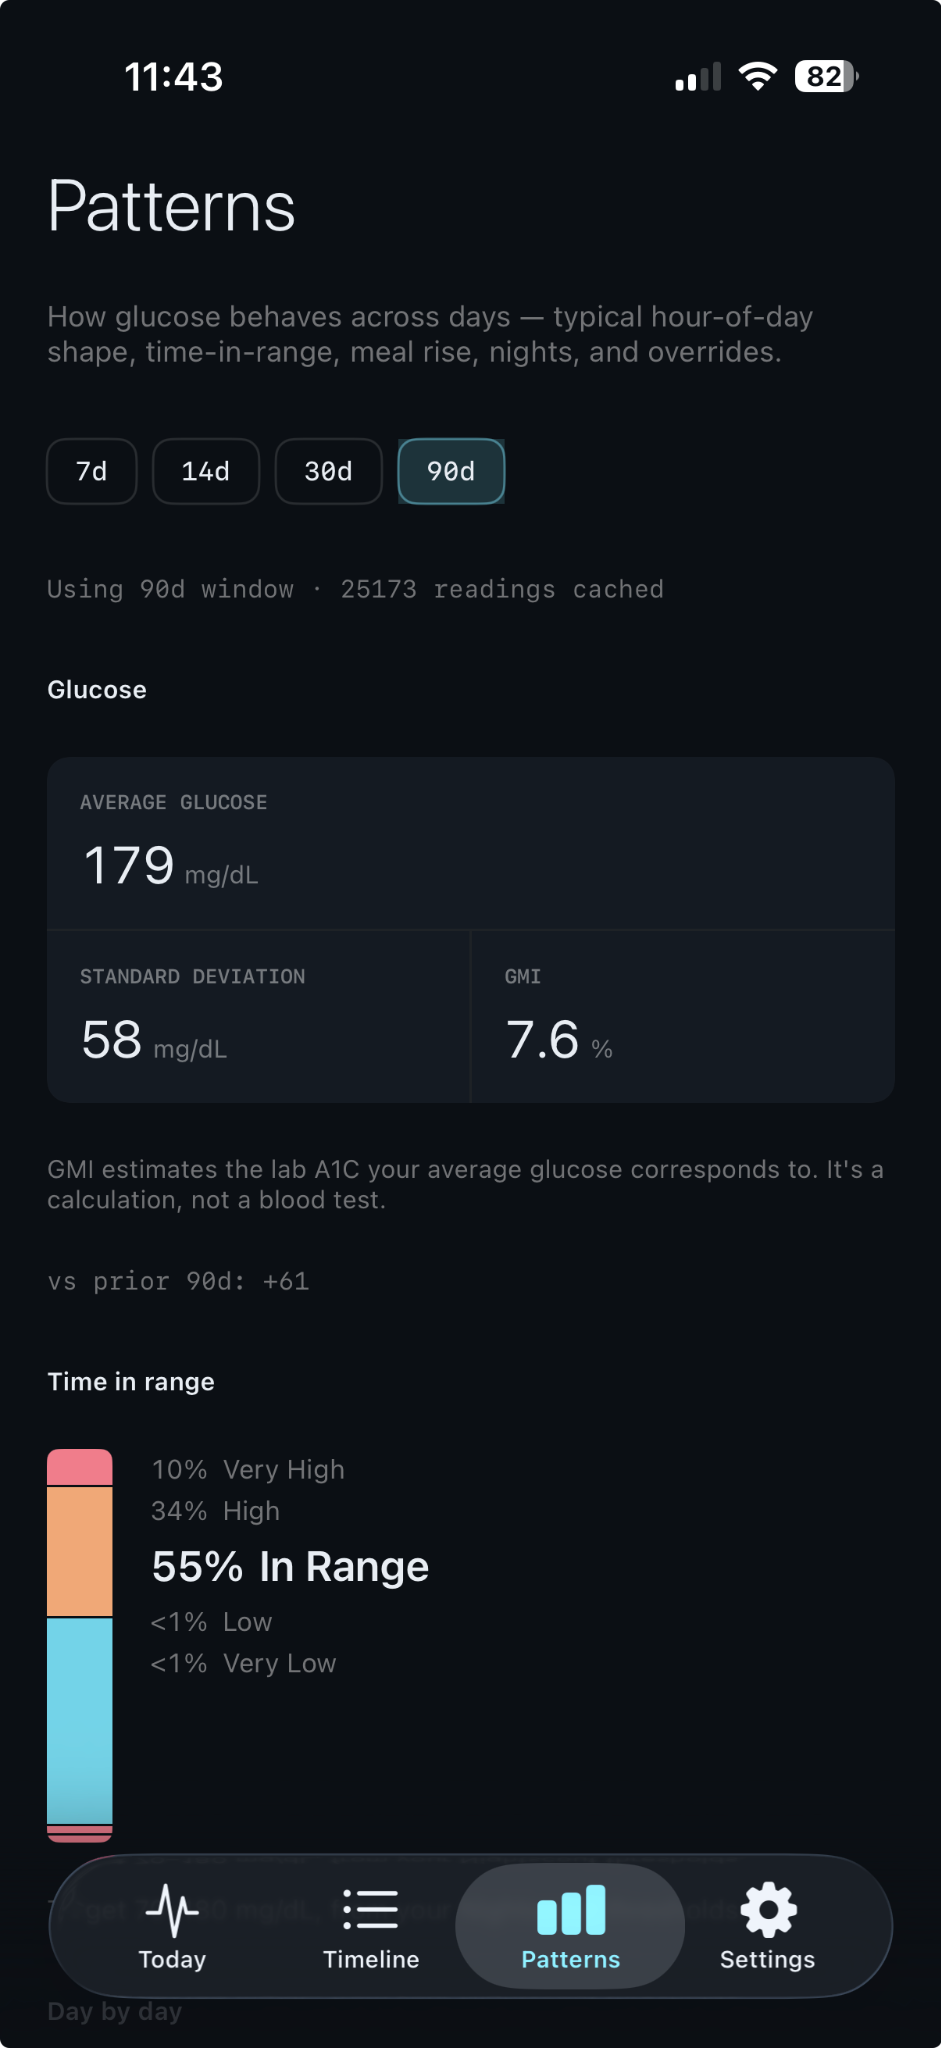
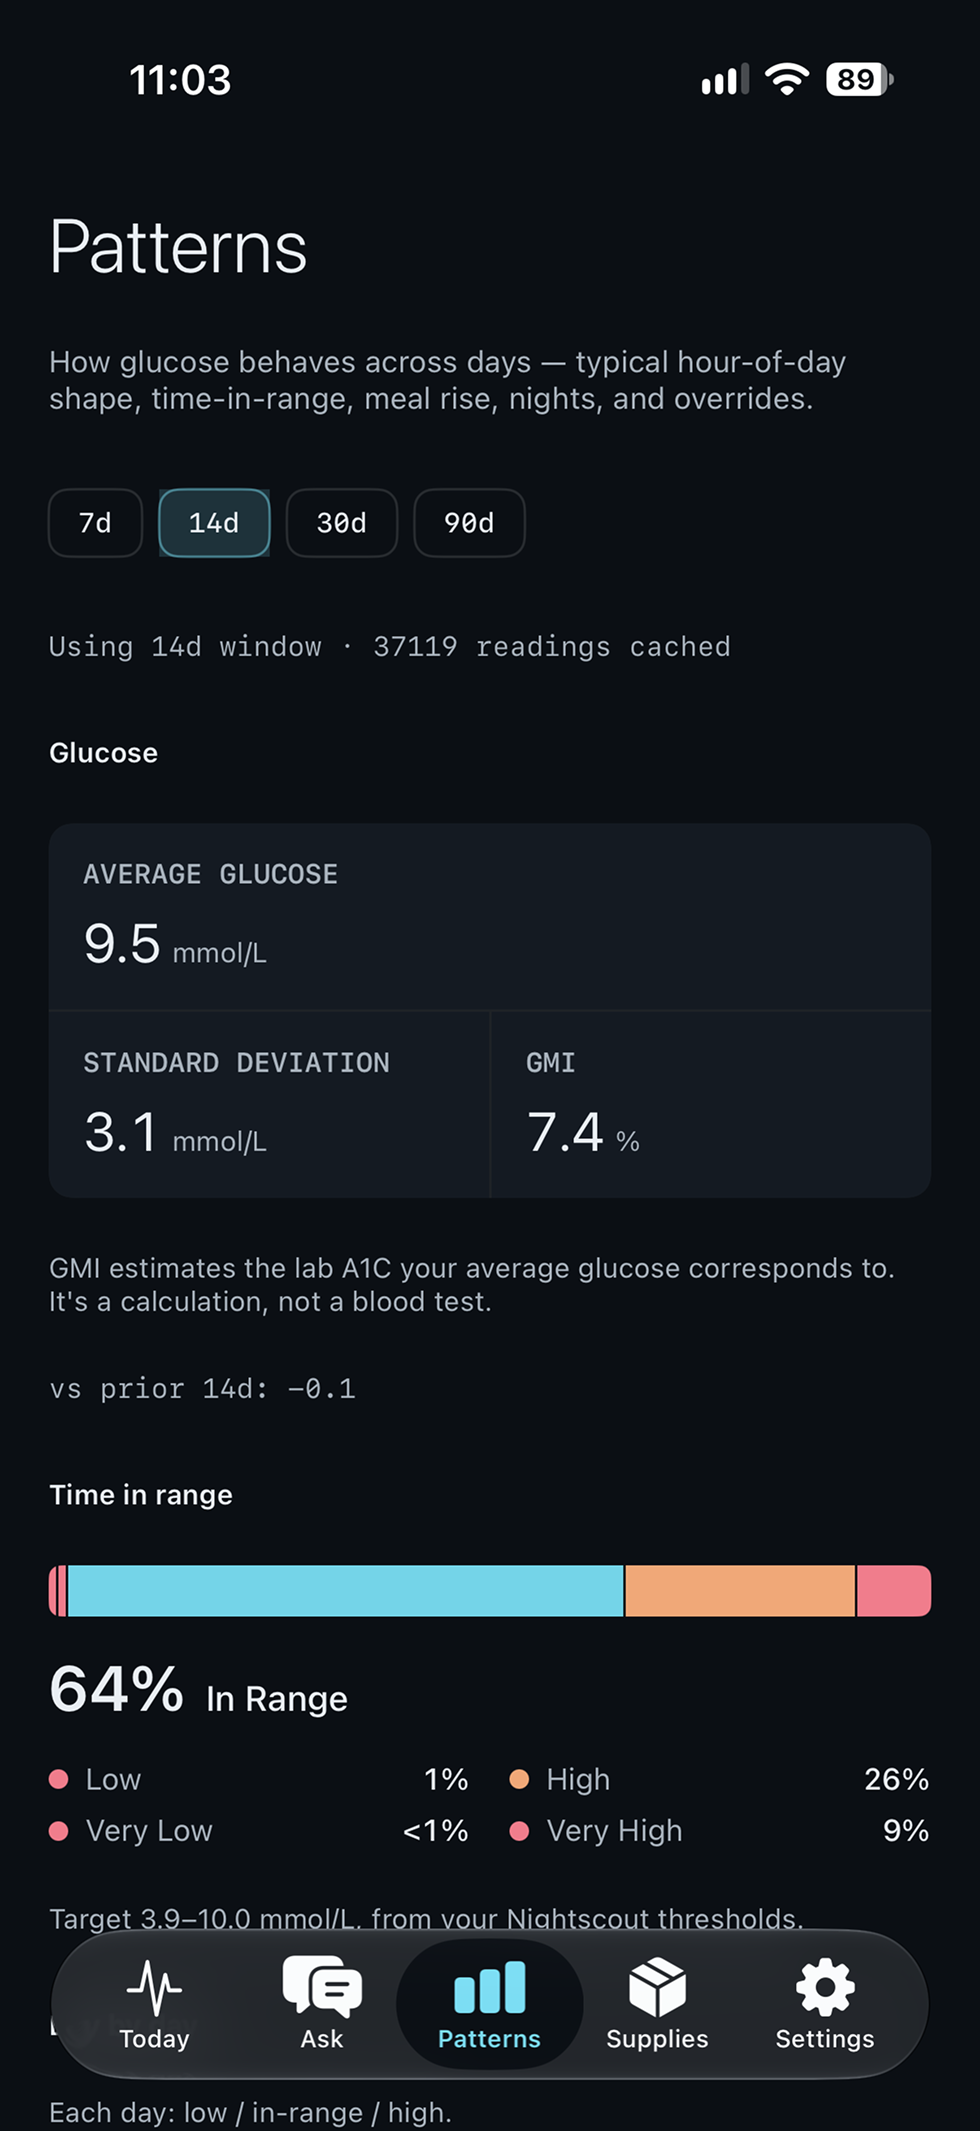
updated patterns

diff --git a/index.html b/index.html
@@ -767,7 +767,7 @@
                 <figure class="screen">
                   <div class="shot phone real">
                     <img
-                      src="./iphone-patterns-mg.png"
+                      src="./iphone-patterns-mg.webp"
                       alt="Nightscout Follow Patterns view with average glucose, GMI and time in range"
                       loading="lazy"
                     />
